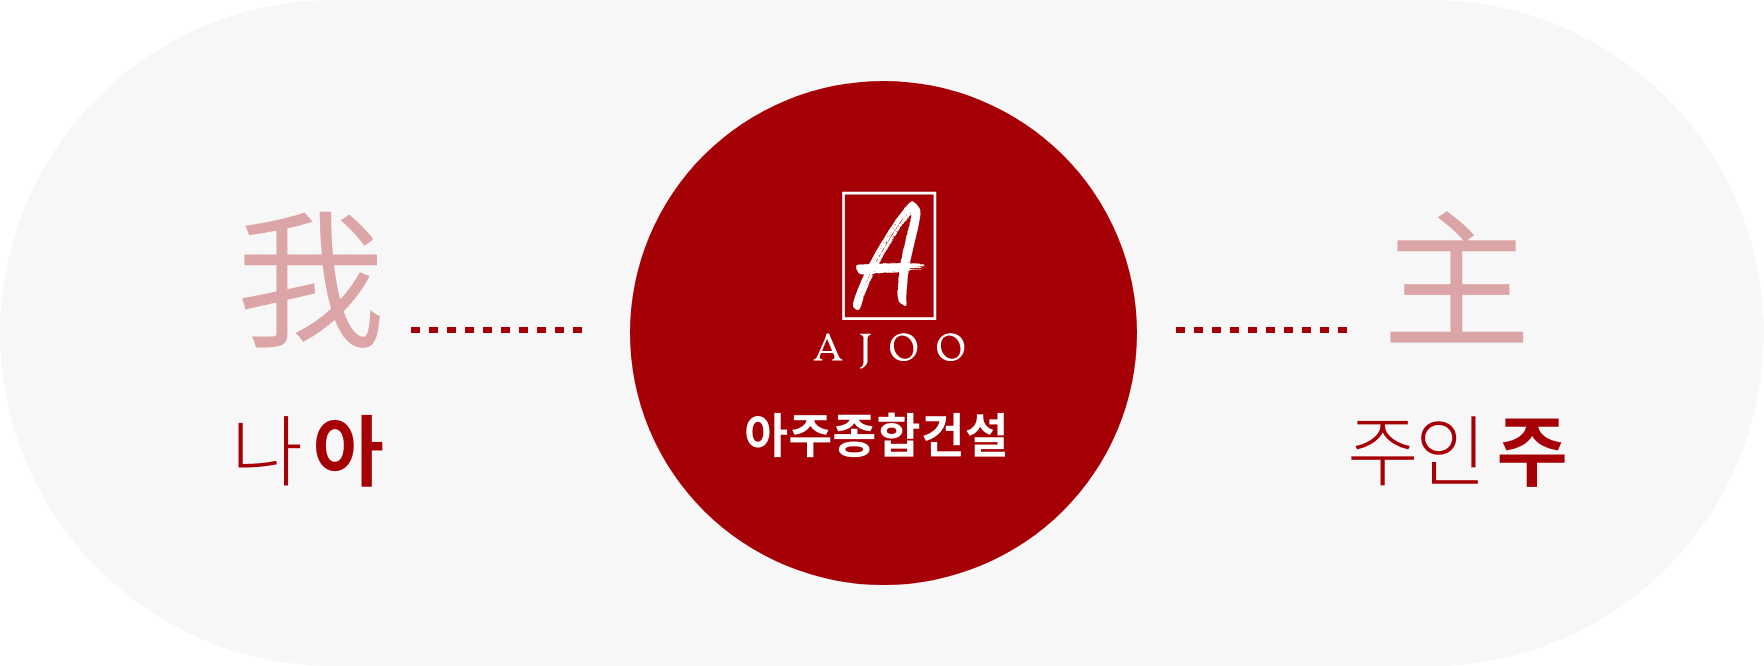
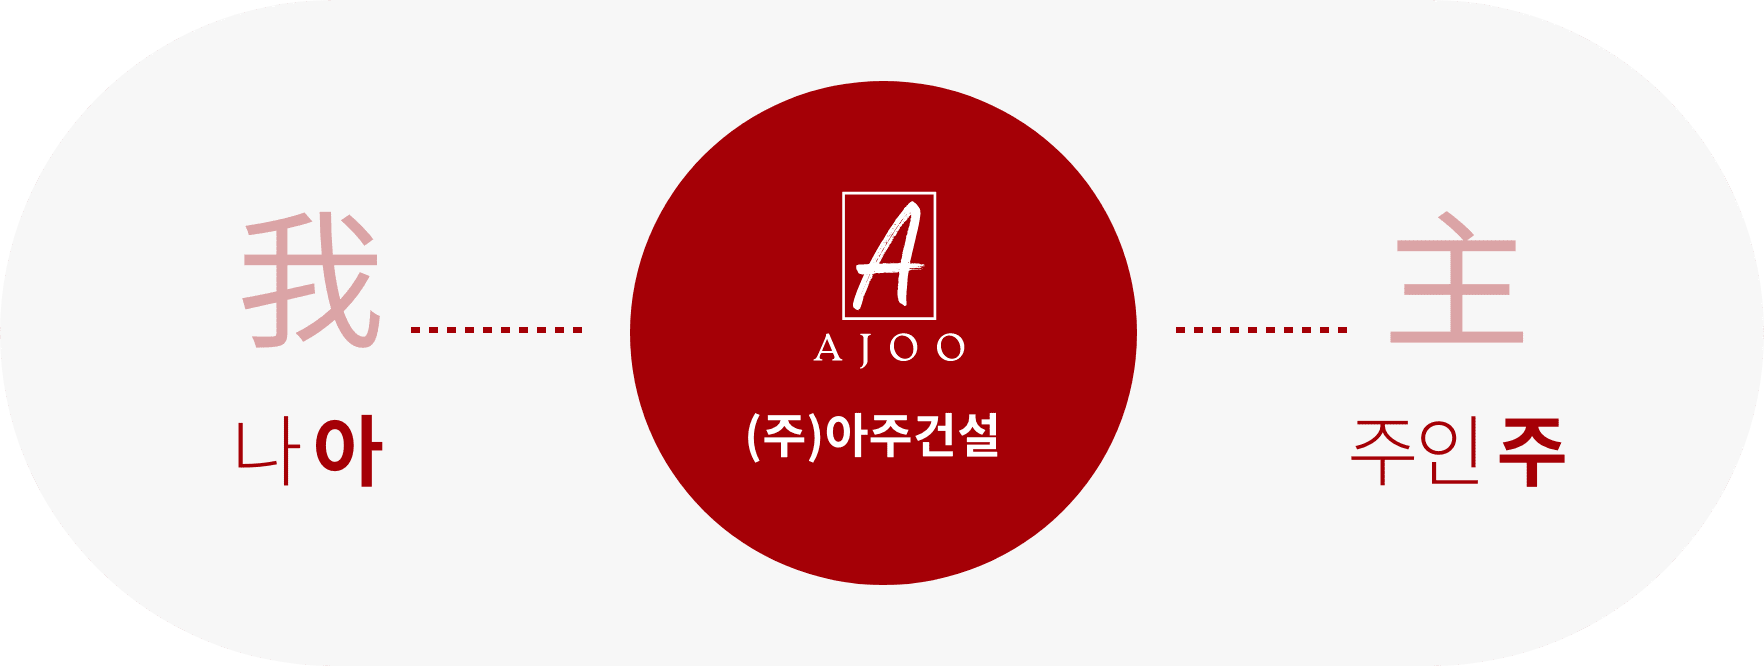
fix

Changed region(s): [[0.4053, 0.6006, 0.5924, 0.6907]]

diff --git a/pages/about/index.tsx b/pages/about/index.tsx
@@ -126,7 +126,9 @@ const Section2 = styled.div`
     height: 100%;
     margin: 0 auto;
     box-sizing: border-box;
-    padding-top: 107px;
+    display: flex;
+    flex-direction: column;
+    justify-content: center;
     .title {
       font-size: 32px;
       font-weight: bold;
@@ -174,7 +176,6 @@ const Section2 = styled.div`
     height: 450px;
     .wrapper {
       width: 720px;
-      padding-top: 91px;
       text-align: center;
       display: flex;
       flex-direction: column;
@@ -819,14 +820,28 @@ const s3 = [
   { title: "대표이사", sub: "전상현" },
   { title: "설립일", sub: "1999년 7월 15일" },
   { title: "소재지", sub: "경북 구미시 형곡로 8길 14, 301호" },
+  { title: "전화번호/팩스번호", sub: "054-455-2326 / 054-458-2327" },
   {
     title: "주요사업내용",
-    sub: `·공장신축 및 개축공사
-·상가 및 주택 신축공사
-·기존건축물 내 외부 리모델링 공사
-·기타 토목공사
-·부동산 개발업
-·부동산 임대업`,
+    sub: `부동산 개발업 
+부동산 임대업
+부동산 매매업
+건물 신축 판매업`,
+  },
+];
+const s3_1 = [
+  { title: "회사명", sub: "(주)아주건설" },
+  { title: "사업자등록번호", sub: "112-81-55296" },
+  { title: "대표이사", sub: "전상현" },
+  { title: "설립일", sub: "2020년 11월 1일" },
+  { title: "소재지", sub: "경북 구미시 형곡로 8길 14, 201호" },
+  { title: "전화번호/팩스번호", sub: "054-455-2326 / 054-458-2327" },
+  {
+    title: "주요사업내용",
+    sub: `공장신축 및 개축공사
+상가 및 주택 신축공사
+기존건축물 내 외부 리모델링 공사
+기타 토목공사 및 시설물 유지 관리`,
   },
 ];
 const s4 = [
